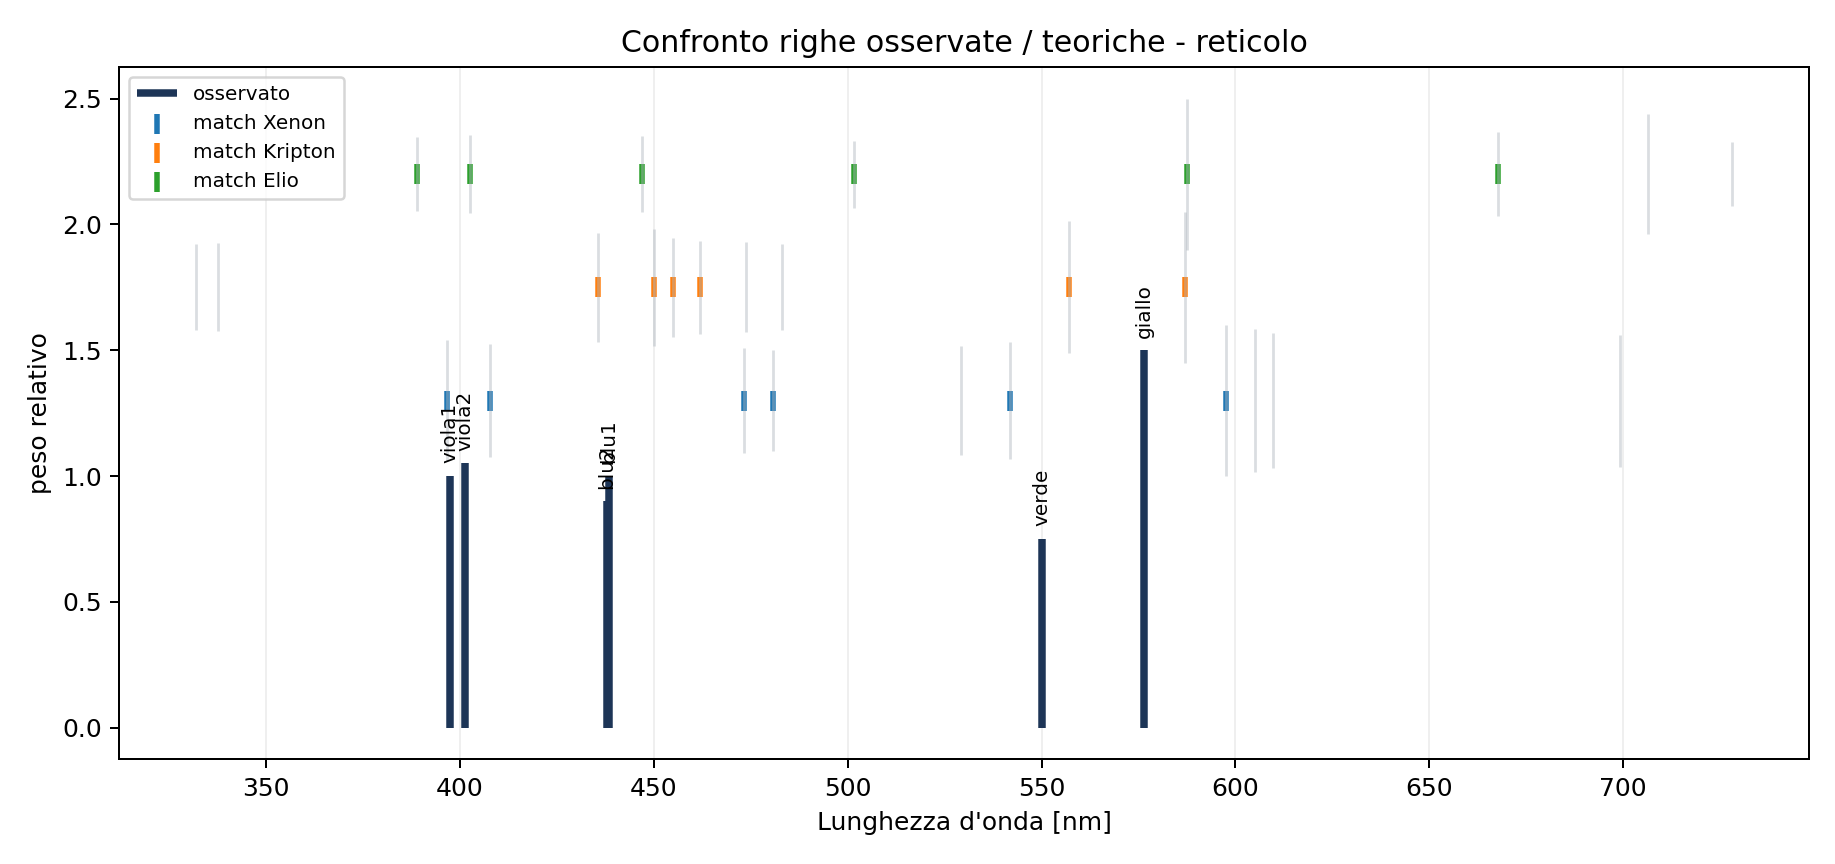
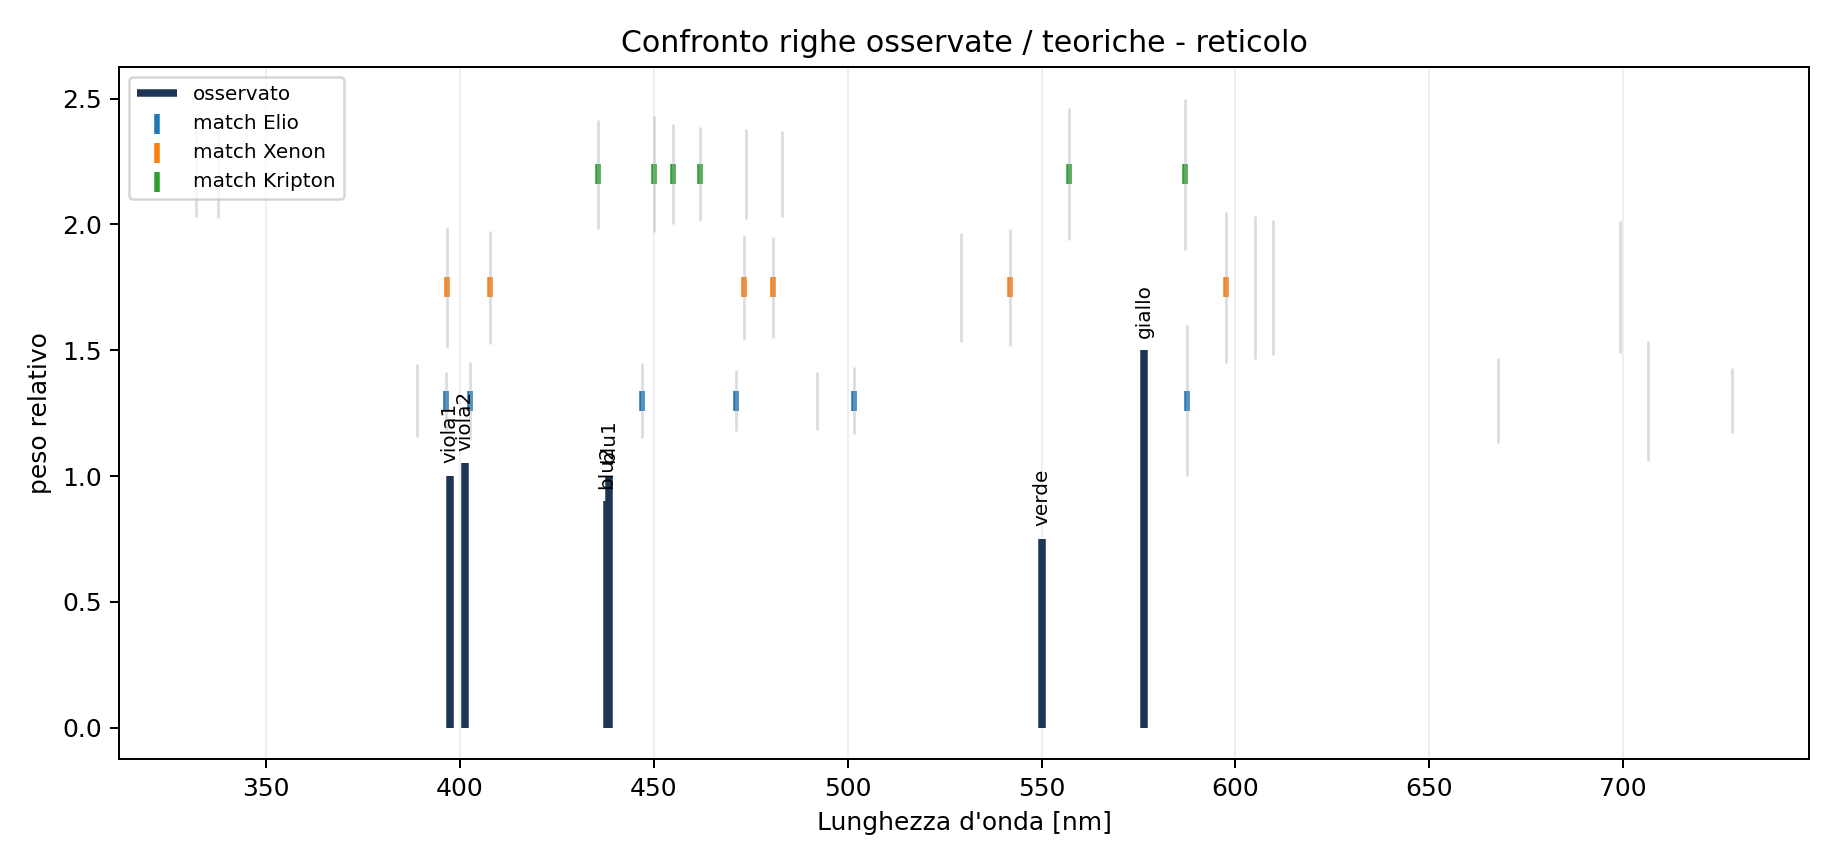
FINALMENTE VIENE ELIO

diff --git a/gas_ignoto/determinazione_gas_power.py b/gas_ignoto/determinazione_gas_power.py
@@ -77,8 +77,11 @@ GAS_LIBRARY = {
             ],
             "reticolo": [
                 {"wavelength": 388.9, "intensity": 0.30},
+                {"wavelength": 396.5, "intensity": 0.16},
                 {"wavelength": 402.6, "intensity": 0.34},
                 {"wavelength": 447.1, "intensity": 0.32},
+                {"wavelength": 471.3, "intensity": 0.18},
+                {"wavelength": 492.2, "intensity": 0.16},
                 {"wavelength": 501.6, "intensity": 0.24},
                 {"wavelength": 587.6, "intensity": 1.00},
                 {"wavelength": 667.8, "intensity": 0.40},
